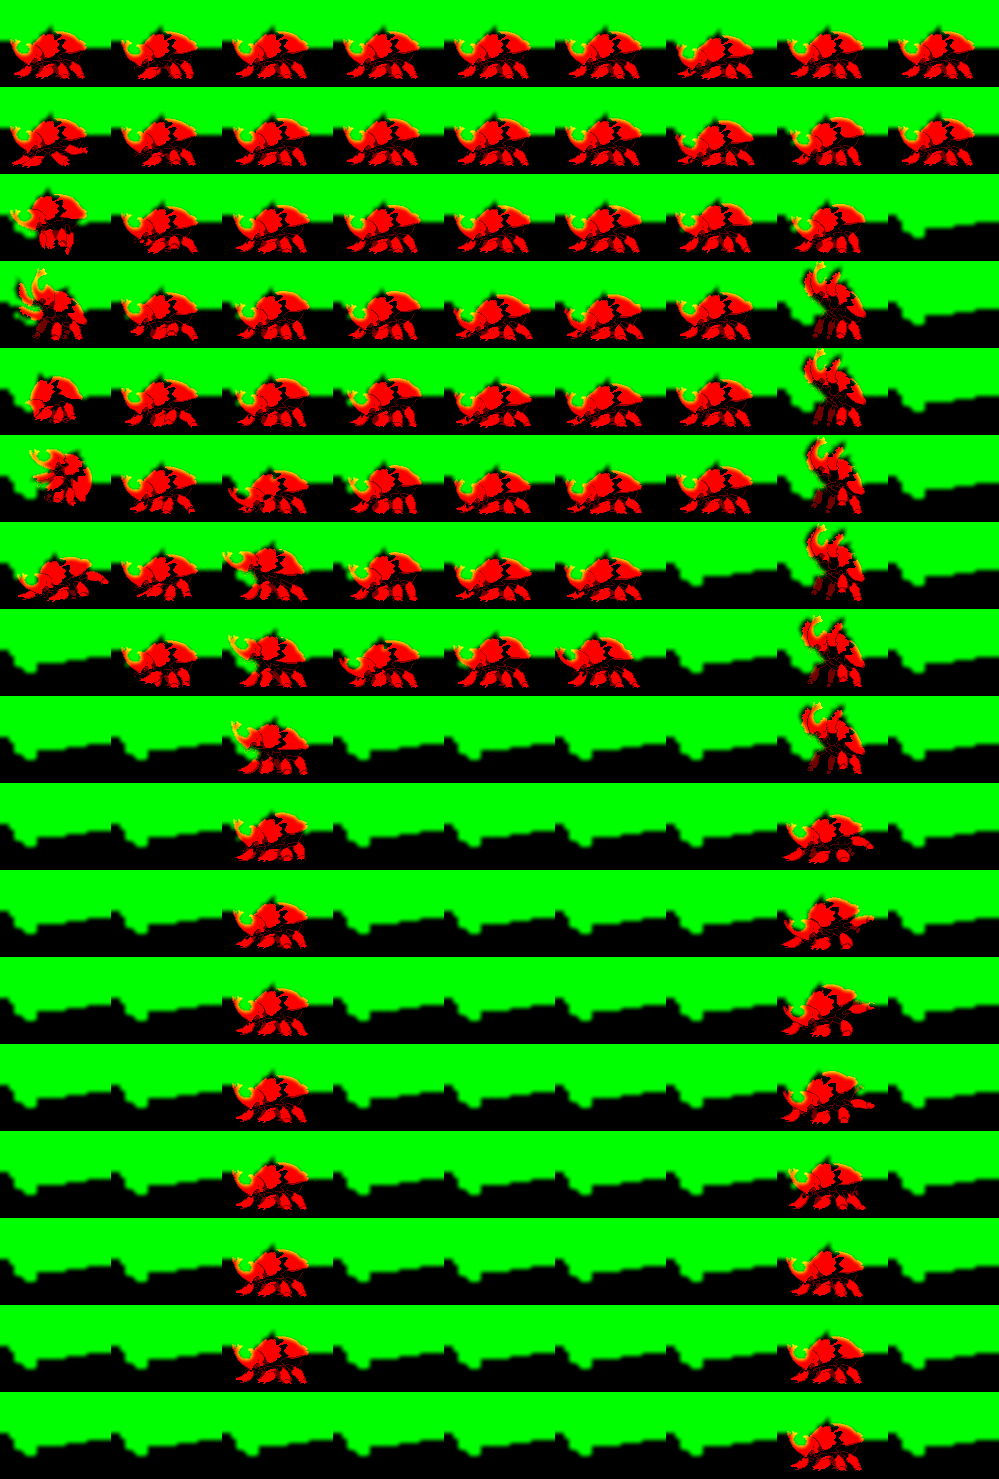
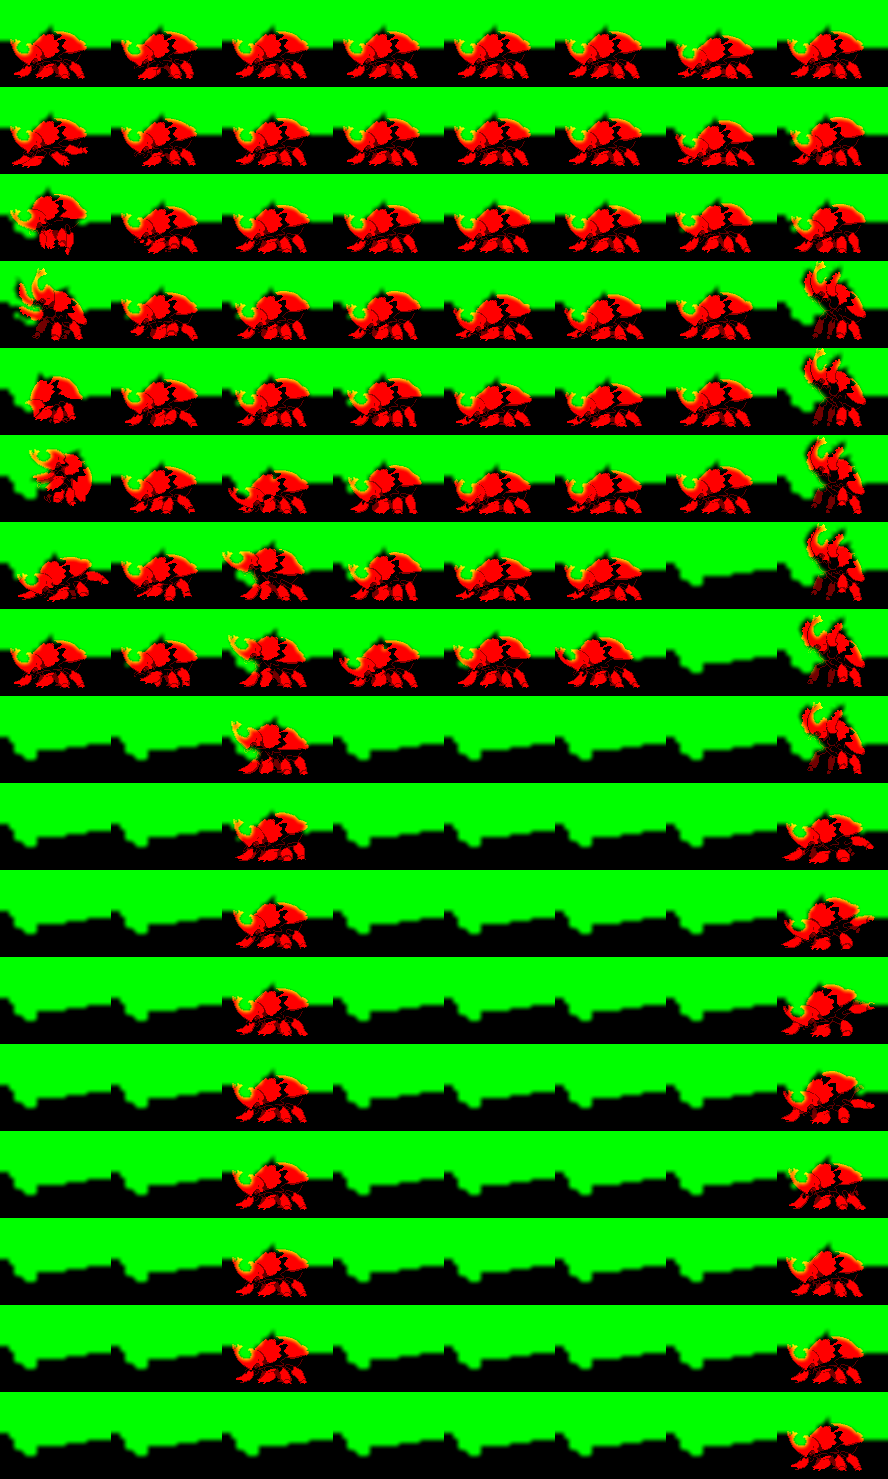
Fix

diff --git a/Content/Desert/ScarabBoss/Boss/Scarabeus.Drawing.cs b/Content/Desert/ScarabBoss/Boss/Scarabeus.Drawing.cs
@@ -1,7 +1,10 @@
-using SpiritReforged.Common.Misc;
+using Microsoft.CodeAnalysis;
+using Newtonsoft.Json.Linq;
+using SpiritReforged.Common.Misc;
 using SpiritReforged.Common.NPCCommon;
 using SpiritReforged.Common.Visuals;
 using System.Linq;
+using Terraria.GameContent.UI;
 
 namespace SpiritReforged.Content.Desert.ScarabBoss.Boss;
 
@@ -146,6 +149,9 @@ public partial class Scarabeus : ModNPC
 
 		FlipShadersOnOff(spriteBatch, null, false);
 
+		if (_charmed)
+			DrawEmote(spriteBatch, (NPC.direction == -1) ? NPC.TopLeft : NPC.TopRight, EmoteID.EmotionLove);
+
 		if (Profile == PhaseTwoProfile)
 		{
 			float lerp = 0.5f + (float)Math.Sin(Main.timeForVisualEffects / 30f) * 0.5f;
@@ -169,6 +175,23 @@ public partial class Scarabeus : ModNPC
 		}
 
 		return false;
+	}
+
+	private static void DrawEmote(SpriteBatch spriteBatch, Vector2 position, int emote)
+	{
+		Texture2D texture = TextureAssets.Extra[ExtrasID.EmoteBubble].Value;
+		SpriteEffects effect = SpriteEffects.None;
+
+		Rectangle source = texture.Frame(EmoteBubble.EMOTE_SHEET_HORIZONTAL_FRAMES, EmoteBubble.EMOTE_SHEET_VERTICAL_FRAMES);
+		Vector2 origin = new(source.Width / 2, source.Height);
+
+		int frame = (int)Main.timeForVisualEffects / 12 % 2;
+		source = texture.Frame(EmoteBubble.EMOTE_SHEET_HORIZONTAL_FRAMES, 39, emote * 2 % 8 + frame, 1 + emote / 4);
+
+		DrawHelpers.DrawOutline(spriteBatch, texture, position - Main.screenPosition, Color.White, (offset) =>
+			spriteBatch.Draw(texture, position - Main.screenPosition + offset, source, Color.White.Additive(), 0f, origin, 1f, effect, 0f));
+
+		spriteBatch.Draw(texture, position - Main.screenPosition, source, Color.White, 0f, origin, 1f, effect, 0f);
 	}
 
 	public void FlipShadersOnOff(SpriteBatch spriteBatch, Effect effect, bool immediate)

diff --git a/Content/Desert/ScarabBoss/Boss/Scarabeus.States.cs b/Content/Desert/ScarabBoss/Boss/Scarabeus.States.cs
@@ -7,6 +7,7 @@ using SpiritReforged.Common.Visuals;
 using SpiritReforged.Common.WorldGeneration;
 using SpiritReforged.Content.Desert.ScarabBoss.Items;
 using SpiritReforged.Content.Particles;
+using Terraria.GameContent.UI;
 using Terraria.Graphics.CameraModifiers;
 
 namespace SpiritReforged.Content.Desert.ScarabBoss.Boss;
@@ -30,13 +31,15 @@ public partial class Scarabeus : ModNPC
 		{
 			NPC.dontTakeDamage = false;
 
-			if (NPC.life == NPC.lifeMax && Target.head == EquipLoader.GetEquipSlot(Mod, nameof(ScarabMask), EquipType.Head))
+			if (NPC.life == NPC.lifeMax && (_charmed || Target.head == EquipLoader.GetEquipSlot(Mod, nameof(ScarabMask), EquipType.Head)))
 			{
 				NPC.FaceTarget();
-				UpdateFrame(8, 2, PhaseOneProfile); //Bonus animation while wearing Scarabeus' mask
+				SetFrame(0, 7, PhaseOneProfile); //Bonus animation while wearing Scarabeus' mask
+				_charmed = true;
 			}
 			else
 			{
+				_charmed = false;
 				ChangeState(Walking);
 			}
 		}
@@ -650,7 +653,11 @@ public partial class Scarabeus : ModNPC
 					Counter = 0;
 					digState++;
 
-					NPC.velocity = NPC.GetArcVel(Target.Center + Vector2.Normalize(Target.velocity) * 400, NPC.gravity, 15, true);
+					if (NPC.DistanceSQ(Target.Center) < 50 * 50)
+						NPC.velocity.Y -= 10;
+					else
+						NPC.velocity = NPC.GetArcVel(Target.Center + Vector2.Normalize(Target.velocity) * 400, NPC.gravity, 15, true);
+
 					NPC.noGravity = false;
 					NPC.FaceTarget();
 				}

diff --git a/Content/Desert/ScarabBoss/Boss/Scarabeus.cs b/Content/Desert/ScarabBoss/Boss/Scarabeus.cs
@@ -43,6 +43,7 @@ public partial class Scarabeus : ModNPC
 	public bool dealContactDamage = false;
 
 	private Action[] _states;
+	private bool _charmed;
 
 	public override void Load()
 	{
@@ -68,7 +69,7 @@ public partial class Scarabeus : ModNPC
 			PortraitPositionXOverride = 0f
 		});
 
-		PhaseOneProfile = new(TextureAssets.Npc[Type], DrawHelpers.RequestLocal<Scarabeus>("ScarabeusSheen", false), [7, 8, 16, 8, 8, 8, 6, 17, 2]);
+		PhaseOneProfile = new(TextureAssets.Npc[Type], DrawHelpers.RequestLocal<Scarabeus>("ScarabeusSheen", false), [8, 8, 16, 8, 8, 8, 6, 17]);
 		PhaseTwoProfile = new(DrawHelpers.RequestLocal<Scarabeus>("ScarabeusPhaseTwo", false), DrawHelpers.RequestLocal<Scarabeus>("ScarabeusSheen", false), [3, 6, 4, 5, 13, 25]);
 	}
 

diff --git a/Content/Desert/ScarabBoss/Boss/Scarabeus.Helpers.cs b/Content/Desert/ScarabBoss/Boss/Scarabeus.Helpers.cs
@@ -32,7 +32,7 @@ public partial class Scarabeus : ModNPC
 			if (CurrentState != Array.IndexOf(_states, Skitter))
 				Add(Walking, 1);
 
-			if (NPC.DistanceSQ(Target.Center) > 160 * 160)
+			if (NPC.DistanceSQ(Target.Center) > 120 * 120)
 				Add(Leap, 0.5);
 
 			if (Collision.SolidTiles(NPC.position + new Vector2(0, 4), NPC.width, NPC.height)) //This is different from checking whether the NPC is grounded
